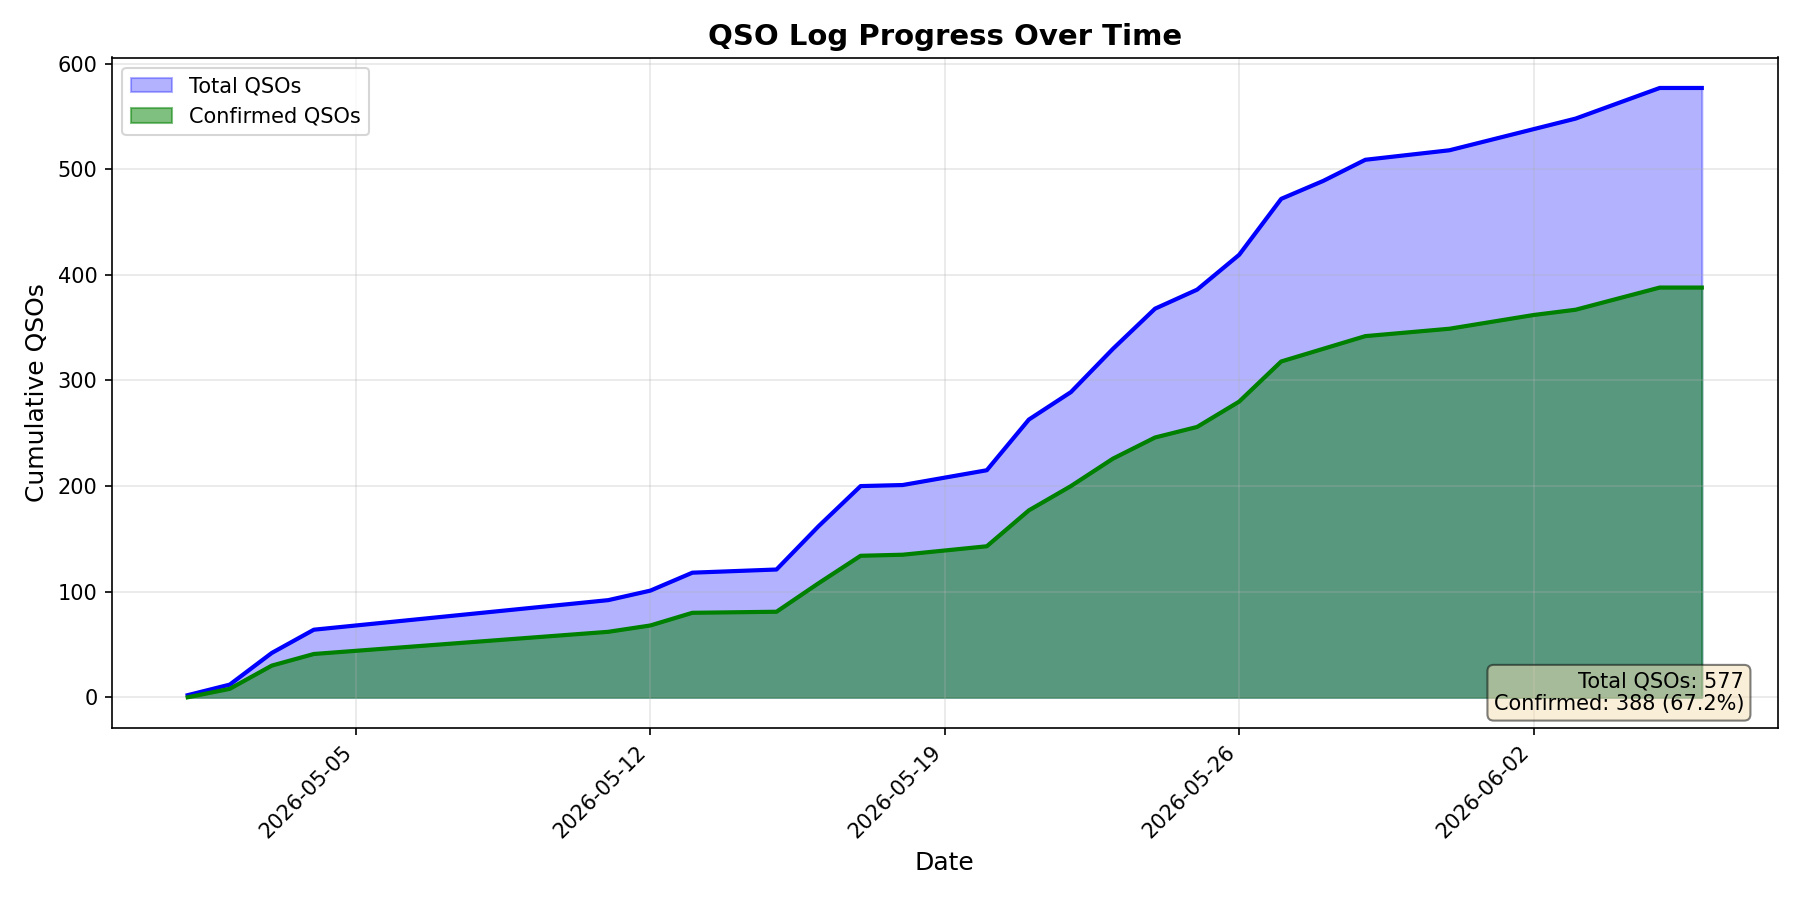
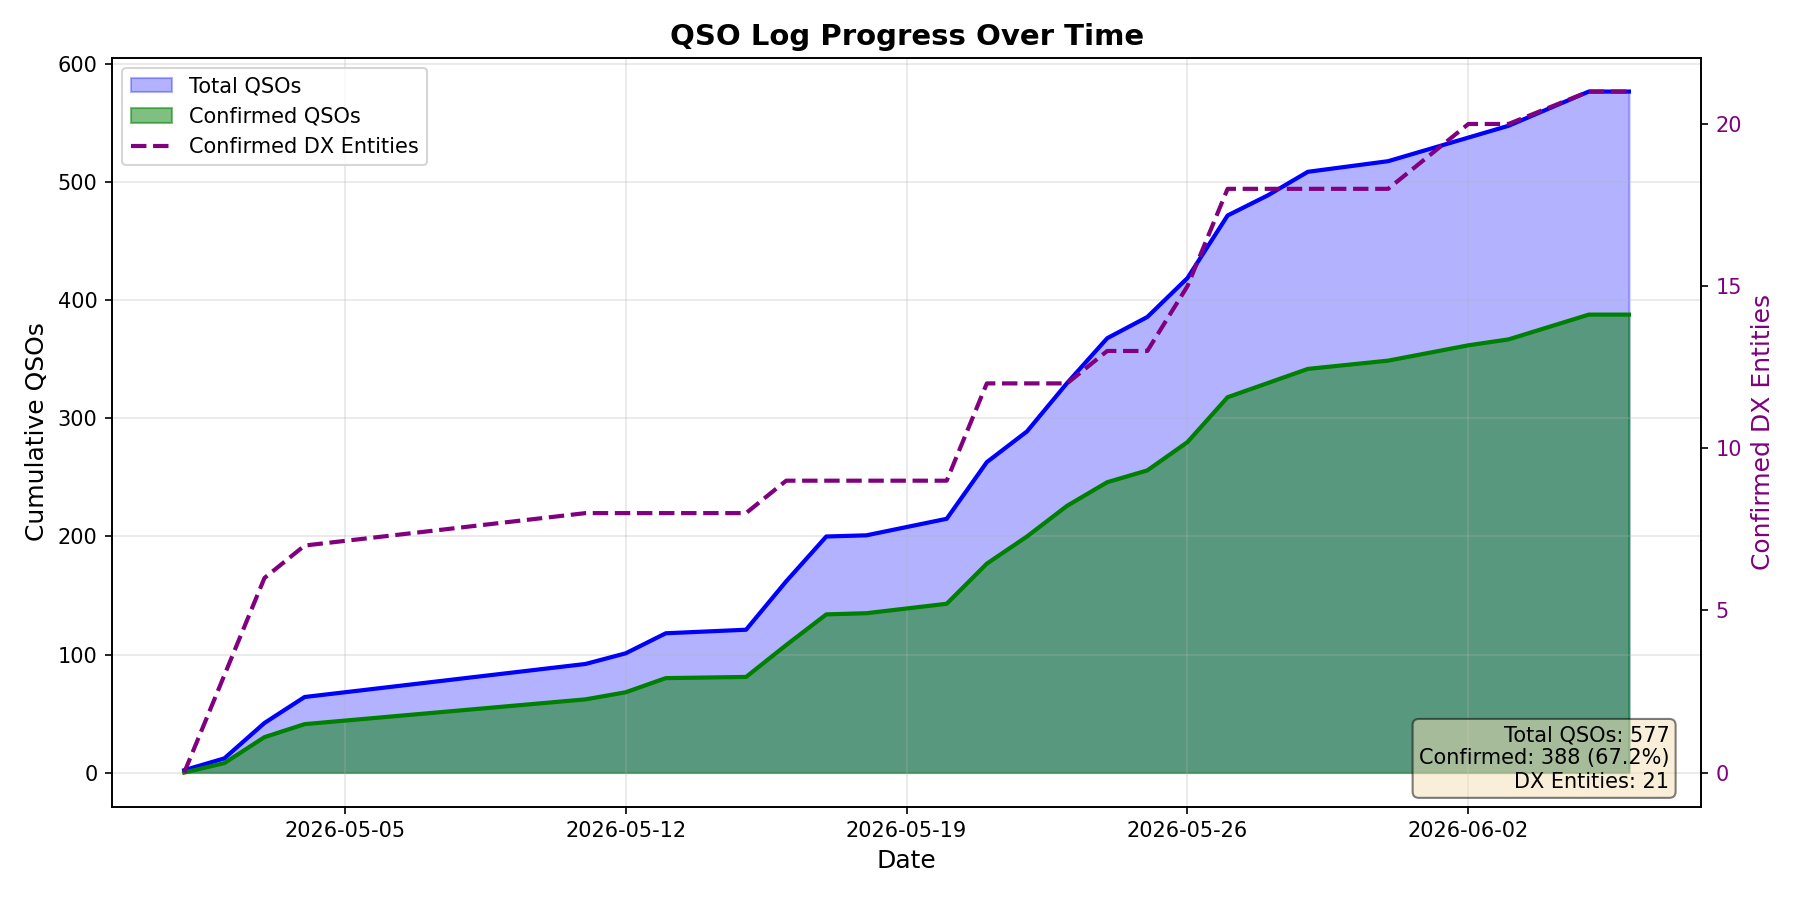
Add confirmed DX entities to QSO graph
Plot cumulative unique DXCC entities on secondary y-axis, showing
progress toward DXCC award alongside QSO counts.

diff --git a/qso_graph.py b/qso_graph.py
@@ -28,7 +28,28 @@ def main():
     """)
 
     rows = cursor.fetchall()
+
+    # Get confirmed DXCC entities with their earliest confirmation date
+    # We want the first date each DXCC entity was confirmed
+    cursor.execute("""
+        SELECT dxcc, MIN(qso_date) as first_confirmed_date
+        FROM qsos
+        WHERE dxcc IS NOT NULL
+          AND dxcc != ''
+          AND (qsl_rcvd = 'Y'
+               OR lotw_qsl_rcvd = 'Y'
+               OR (app_qrzlog_qsldate IS NOT NULL AND app_qrzlog_qsldate != ''))
+        GROUP BY dxcc
+        ORDER BY first_confirmed_date
+    """)
+
+    dxcc_rows = cursor.fetchall()
     conn.close()
+
+    # Build a map of date -> number of new DXCC entities confirmed that day
+    dxcc_by_date = {}
+    for dxcc, first_date in dxcc_rows:
+        dxcc_by_date[first_date] = dxcc_by_date.get(first_date, 0) + 1
 
     if not rows:
         print("No QSOs found in database.")
@@ -38,9 +59,11 @@ def main():
     dates = []
     cumulative_confirmed = []
     cumulative_total = []
+    cumulative_dxcc = []
 
     running_confirmed = 0
     running_total = 0
+    running_dxcc = 0
 
     for row in rows:
         date_str, confirmed, unconfirmed = row
@@ -49,12 +72,15 @@ def main():
 
         running_confirmed += confirmed
         running_total += confirmed + unconfirmed
+        running_dxcc += dxcc_by_date.get(date_str, 0)
 
         cumulative_confirmed.append(running_confirmed)
         cumulative_total.append(running_total)
+        cumulative_dxcc.append(running_dxcc)
 
-    # Create the plot
+    # Create the plot with secondary y-axis for DXCC entities
     fig, ax = plt.subplots(figsize=(12, 6))
+    ax2 = ax.twinx()
 
     # Plot total QSOs
     ax.fill_between(dates, cumulative_total, alpha=0.3, color='blue', label='Total QSOs')
@@ -65,6 +91,12 @@ def main():
         ax.fill_between(dates, cumulative_confirmed, alpha=0.5, color='green', label='Confirmed QSOs')
         ax.plot(dates, cumulative_confirmed, color='green', linewidth=2)
 
+    # Plot confirmed DXCC entities on secondary axis
+    if running_dxcc > 0:
+        ax2.plot(dates, cumulative_dxcc, color='purple', linewidth=2, linestyle='--', label='Confirmed DX Entities')
+        ax2.set_ylabel('Confirmed DX Entities', fontsize=12, color='purple')
+        ax2.tick_params(axis='y', labelcolor='purple')
+
     # Formatting
     ax.set_xlabel('Date', fontsize=12)
     ax.set_ylabel('Cumulative QSOs', fontsize=12)
@@ -74,11 +106,14 @@ def main():
     ax.xaxis.set_major_locator(mdates.WeekdayLocator(interval=1))
     plt.xticks(rotation=45, ha='right')
 
-    ax.legend(loc='upper left')
+    # Combine legends from both axes
+    lines1, labels1 = ax.get_legend_handles_labels()
+    lines2, labels2 = ax2.get_legend_handles_labels()
+    ax.legend(lines1 + lines2, labels1 + labels2, loc='upper left')
     ax.grid(True, alpha=0.3)
 
     # Add stats annotation
-    stats_text = f"Total QSOs: {running_total}\nConfirmed: {running_confirmed} ({100*running_confirmed/running_total:.1f}%)"
+    stats_text = f"Total QSOs: {running_total}\nConfirmed: {running_confirmed} ({100*running_confirmed/running_total:.1f}%)\nDX Entities: {running_dxcc}"
     ax.annotate(stats_text, xy=(0.98, 0.02), xycoords='axes fraction',
                 ha='right', va='bottom', fontsize=10,
                 bbox=dict(boxstyle='round', facecolor='wheat', alpha=0.5))
@@ -88,6 +123,7 @@ def main():
     print(f"Graph saved to qso_graph.png")
     print(f"Total QSOs: {running_total}")
     print(f"Confirmed QSOs: {running_confirmed}")
+    print(f"Confirmed DX Entities: {running_dxcc}")
 
 if __name__ == "__main__":
     main()